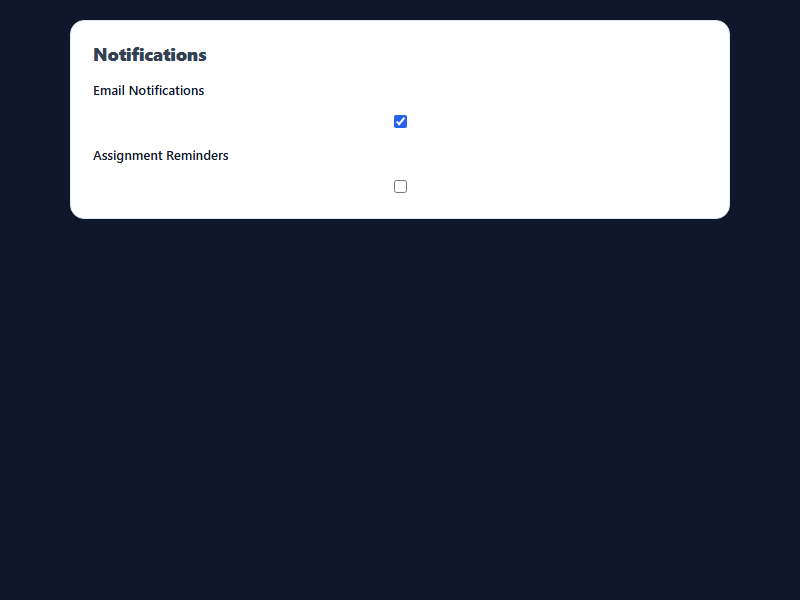
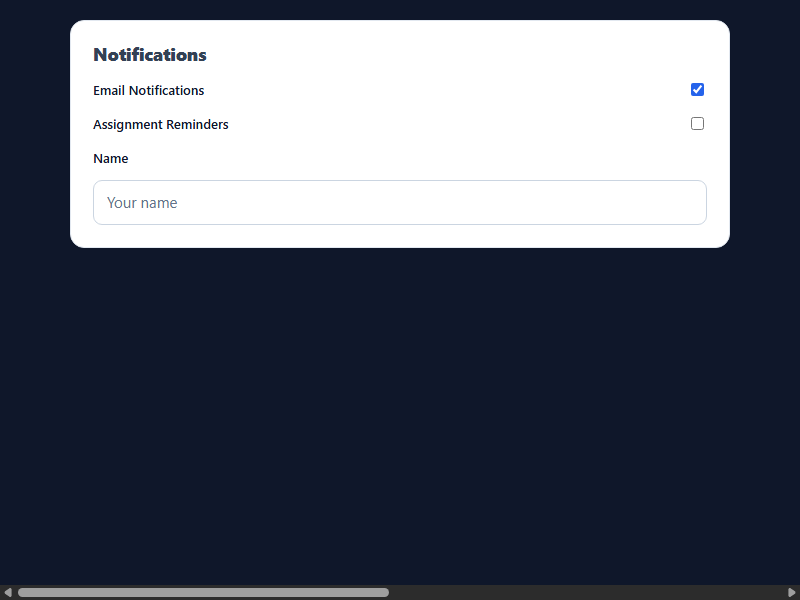
Auto-commit: 03-10-2026 19:57:16.02 (2 files changed, 12 insertions(+))

diff --git a/.repro.html b/.repro.html
@@ -8,6 +8,18 @@
   <div class="hod-form">
     <div class="hod-form-row"><label>Email Notifications</label><input type="checkbox" class="hod-checkbox" checked></div>
     <div class="hod-form-row"><label>Assignment Reminders</label><input type="checkbox" class="hod-checkbox"></div>
+    <div class="hod-form-row"><label>Name</label><input class="hod-input" placeholder="Your name"></div>
   </div>
 </div>
+<script>
+window.addEventListener('load', () => {
+  const out=[];
+  document.querySelectorAll('.hod-form-row').forEach((row,i)=>{
+    const l=row.querySelector('label').getBoundingClientRect();
+    const c=row.querySelector('input').getBoundingClientRect();
+    out.push('row'+i+' label[x='+Math.round(l.x)+',y='+Math.round(l.y)+'] input[x='+Math.round(c.x)+',y='+Math.round(c.y)+',w='+Math.round(c.width)+',h='+Math.round(c.height)+'] sameLine='+(Math.abs((l.y+l.height/2)-(c.y+c.height/2))<8));
+  });
+  document.body.insertAdjacentHTML('beforeend','<pre id="res">'+out.join(' | ')+'</pre>');
+});
+</script>
 </body></html>
